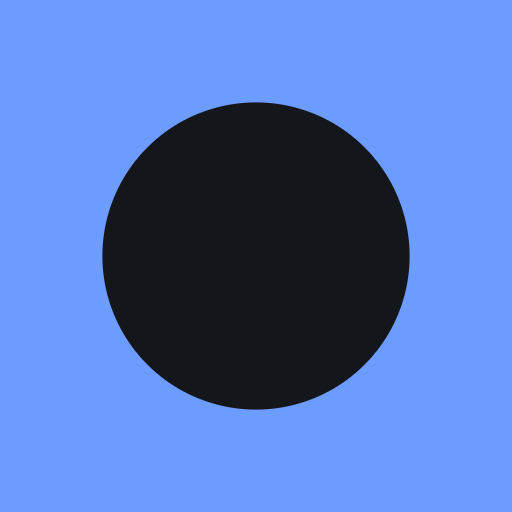
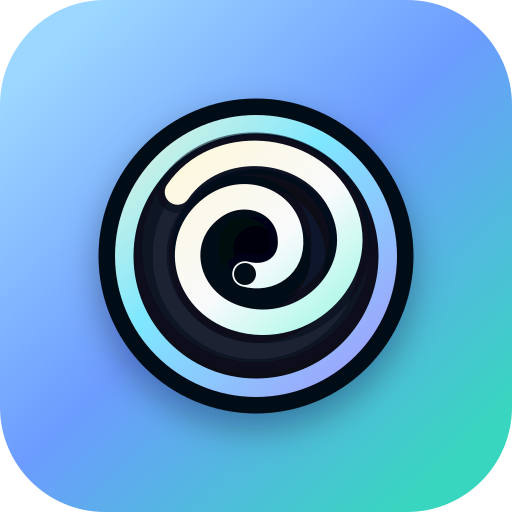
Add RabbitHole brand assets

diff --git a/brand/README.md b/brand/README.md
@@ -1,0 +1,27 @@
+# Brand Assets
+
+These are the editable logo masters and GitHub-ready exports for Mirrorward and
+RabbitHole.
+
+## GitHub Usage
+
+- `mirrorward-logo.svg` is the source logo for the `mirrorward` GitHub organization.
+- `mirrorward-logo-1024.png` is the upload-ready organization avatar.
+- `rabbithole-logo.svg` is the source logo for the `mirrorward/rabbithole` repository.
+- `rabbithole-logo-1024.png` is the upload-ready square repository mark.
+- `rabbithole-social-preview.svg` is the source for the repository social preview.
+- `rabbithole-social-preview-1280x640.png` is the upload-ready GitHub social preview.
+- `rabbithole-readme-banner.svg` is the source banner for the repository README.
+- `rabbithole-readme-banner-1280x360.png` is the PNG export of the README banner.
+
+The web app PWA icons in `crates/ui-web/assets/` are rendered from
+`rabbithole-logo.svg`.
+
+## Archive
+
+The previous RabbitHole app icon is preserved in `archive/`:
+
+- `archive/rabbithole-logo-previous.svg`
+- `archive/rabbithole-logo-previous-1024.png`
+- `archive/rabbithole-app-icon-previous-512.png`
+- `archive/rabbithole-app-icon-previous-192.png`

diff --git a/README.md b/README.md
@@ -1,3 +1,5 @@
+![RabbitHole banner](brand/rabbithole-readme-banner.svg)
+
 # RabbitHole
 
 > Down the rabbit hole: a modern Rust revival of the golden age of online